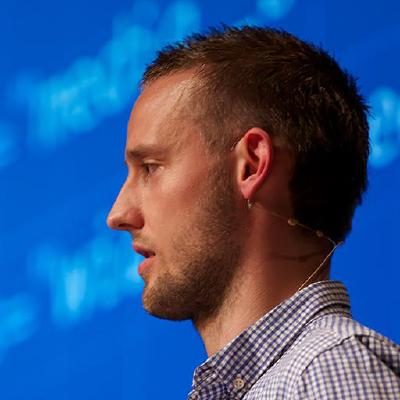
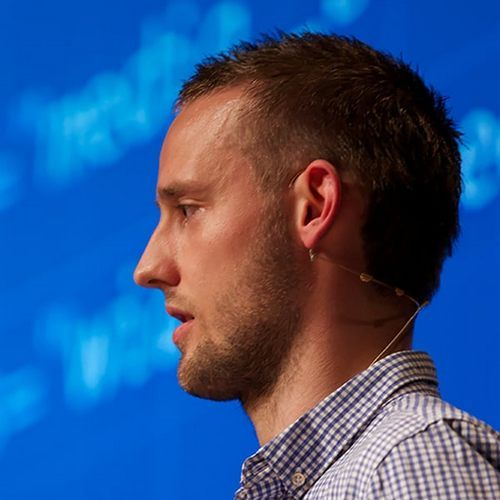
Image imtimizations

diff --git a/index.html b/index.html
@@ -82,7 +82,7 @@
                     </article>
                     <article class="speakers__item">
                         <div class="speakers__img-wrapper">
-                            <img src="img/speaker-okhrimenko.png" class="speakers__img" alt="Aleksey Okhrimenko">
+                            <img src="img/speaker-okhrimenko.jpg" class="speakers__img" alt="Aleksey Okhrimenko">
                         </div>
                         <strong class="speakers__name">Aleksey Okhrimenko</strong><br>
                         <span class="speakers__job">Senior JavaScript Developer<br> IPONWEB</span>
